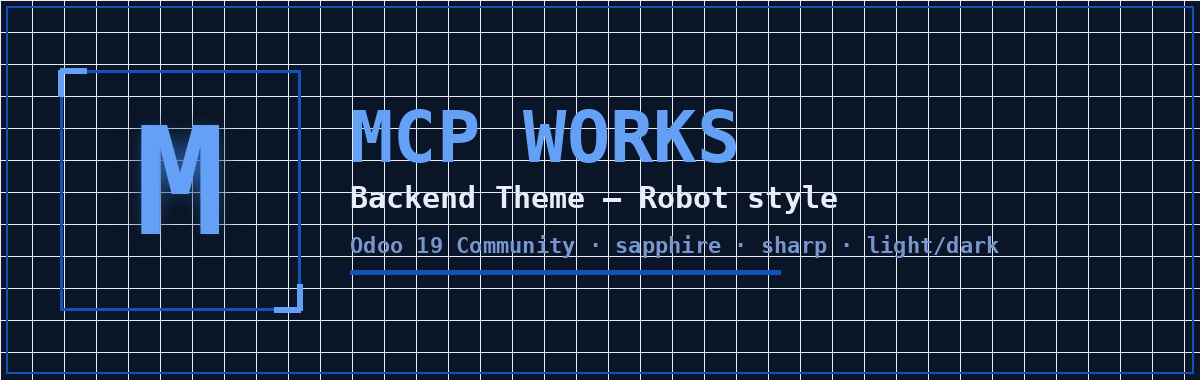
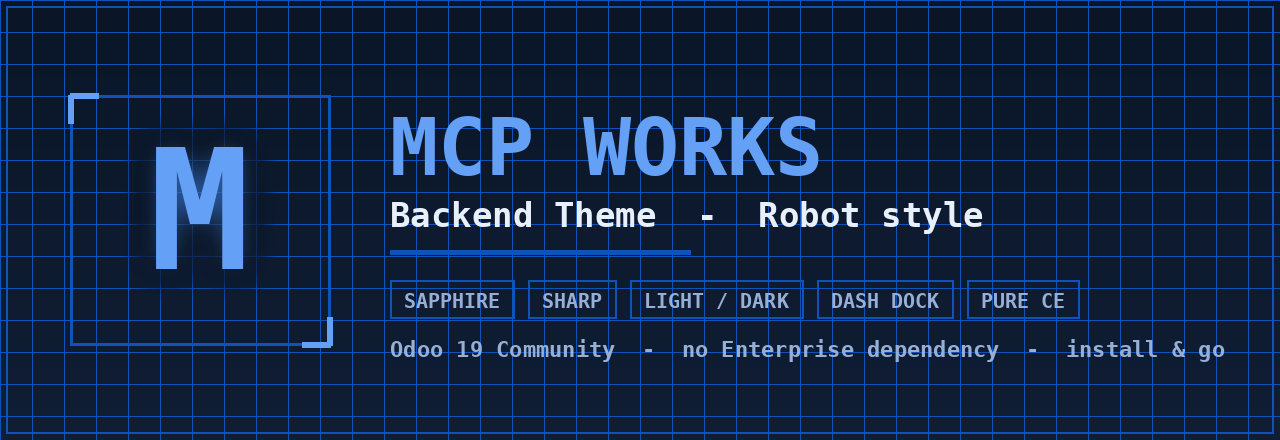
[DOC] theme_mcp_works_backend: Apps Store cover + fixed index.html + нов банер (v223)
Store страницата беше зле (Rosen): мохибейк + „no cover image". Причини:
- index.html беше БЕЗ <meta charset="UTF-8"> и със стар oe_* стил + emoji →
  счупени символи в Apps Store.
- Манифестът нямаше `images` → липсваше cover/thumbnail.

Фиксове (по стила на l10n_bg_config референта):
- index.html пренаписан: пълен HTML doc + charset UTF-8 + модерен Bootstrap
  (s_cover / card / col-lg-* / fa икони), БЕЗ emoji (fontawesome + HTML entities)
  → без мохибейк.
- __manifest__.py: `images: [static/description/banner.png]` → cover/thumbnail.
- Нов, по-издържан banner.png (M лого + feature чипове SAPPHIRE/SHARP/LIGHT-DARK/
  DASH DOCK/PURE CE + таглайн).

Changed region(s): [[0.0, 0.0, 1.0, 1.0]]

diff --git a/theme_mcp_works_backend/static/description/index.html b/theme_mcp_works_backend/static/description/index.html
@@ -1,126 +1,140 @@
-<!-- MCP Works — Backend Theme · Odoo Apps Store description
-     Bootstrap / Odoo snippet style (oe_container / oe_row / oe_span / oe_slogan). -->
+<!DOCTYPE html>
+<html lang="en">
+<head>
+    <meta charset="UTF-8">
+    <meta name="viewport" content="width=device-width, initial-scale=1.0">
+    <title>MCP Works &mdash; Backend Theme (Robot style)</title>
+</head>
+<body>
 
-<section class="oe_container">
-  <div class="oe_row oe_spaced">
-    <div class="oe_span12" style="text-align:center;">
-      <img src="banner.png" class="oe_picture" style="max-width:100%;height:auto;"/>
+<!-- Hero / cover -->
+<section class="s_cover pt64 pb64" style="background-color:#0a1628;">
+    <div class="container text-center">
+        <img src="banner.png" alt="MCP Works Backend Theme" class="img-fluid mb-4"
+             style="max-width:100%;border:1px solid #0F52BA;">
+        <h1 class="text-white mb-3">MCP Works &mdash; Backend Theme</h1>
+        <p class="lead mb-2" style="color:#99b3d6;">
+            A hi-tech, minimalist <strong>&laquo;robot&raquo;</strong> skin for the Odoo&nbsp;19
+            <strong style="color:#63a0f6;">Community</strong> backend
+        </p>
+        <p class="mb-0" style="color:#7f96b8;max-width:760px;margin:0 auto;">
+            Electric-sapphire accents, sharp corners, a fine blueprint mesh, seamless
+            light&nbsp;/&nbsp;dark mode and a vertical Dash dock &mdash; applied uniformly across
+            the whole backend. <strong>No Enterprise dependency.</strong>
+        </p>
     </div>
-    <div class="oe_span12">
-      <h2 class="oe_slogan" style="color:#0F52BA;margin-top:24px;">MCP Works — Backend Theme</h2>
-      <h3 class="oe_slogan" style="color:#334155;font-weight:400;">
-        A hi-tech, minimalist <strong>“robot”</strong> skin for the Odoo&nbsp;19 <strong>Community</strong> backend
-      </h3>
-      <p class="oe_mt32" style="text-align:center;max-width:820px;margin:24px auto 0;color:#334155;font-size:16px;line-height:1.6;">
-        Electric-sapphire accents, sharp corners, a fine blueprint mesh, seamless
-        light&nbsp;/&nbsp;dark mode and a vertical <em>Dash</em> dock — applied uniformly across
-        the whole backend. <strong>No Enterprise dependency.</strong> Just install and enjoy a
-        crisp, distinctive workspace.
-      </p>
-    </div>
-  </div>
 </section>
 
-<section class="oe_container oe_dark">
-  <div class="oe_row oe_spaced">
-    <div class="oe_span12"><h2 class="oe_slogan" style="color:#0F52BA;">Why you’ll like it</h2></div>
-
-    <div class="oe_span4">
-      <h3 class="oe_slogan" style="color:#0F52BA;">⚡ Independent &amp; Community-first</h3>
-      <p class="oe_mt16">Pure CE. Depends only on <code>web</code> and <code>base_setup</code>,
-        and explicitly excludes <code>web_enterprise</code>. No paid tiers required.</p>
+<!-- Highlights -->
+<section class="s_features pt48 pb32">
+    <div class="container">
+        <div class="row">
+            <div class="col-lg-12 s_title pb32 text-center">
+                <h2 style="color:#0F52BA;">Why you will like it</h2>
+            </div>
+            <div class="col-lg-3 col-md-6 pt16 pb16">
+                <div class="card h-100"><div class="card-body text-center">
+                    <i class="fa fa-cube fa-3x mb-3" style="color:#0F52BA;"></i>
+                    <h3 class="card-title h5">Community-first</h3>
+                    <p class="card-text">Pure CE. Depends only on <code>web</code> and
+                        <code>base_setup</code>; explicitly excludes <code>web_enterprise</code>.</p>
+                </div></div>
+            </div>
+            <div class="col-lg-3 col-md-6 pt16 pb16">
+                <div class="card h-100"><div class="card-body text-center">
+                    <i class="fa fa-diamond fa-3x mb-3" style="color:#0F52BA;"></i>
+                    <h3 class="card-title h5">Sharp robot identity</h3>
+                    <p class="card-text">Electric-sapphire accent, zero-radius corners, a subtle
+                        blueprint grid and monospace telemetry labels.</p>
+                </div></div>
+            </div>
+            <div class="col-lg-3 col-md-6 pt16 pb16">
+                <div class="card h-100"><div class="card-body text-center">
+                    <i class="fa fa-adjust fa-3x mb-3" style="color:#0F52BA;"></i>
+                    <h3 class="card-title h5">Light &amp; Dark</h3>
+                    <p class="card-text">A calibrated dark theme ships with the light one &mdash;
+                        token-driven, accent legible on both grounds.</p>
+                </div></div>
+            </div>
+            <div class="col-lg-3 col-md-6 pt16 pb16">
+                <div class="card h-100"><div class="card-body text-center">
+                    <i class="fa fa-columns fa-3x mb-3" style="color:#0F52BA;"></i>
+                    <h3 class="card-title h5">Vertical Dash dock</h3>
+                    <p class="card-text">A slim, always-there app launcher &mdash; expand for names,
+                        collapse for icons. Plus a selectable UI font.</p>
+                </div></div>
+            </div>
+        </div>
     </div>
-    <div class="oe_span4">
-      <h3 class="oe_slogan" style="color:#0F52BA;">◆ Sharp “robot” identity</h3>
-      <p class="oe_mt16">Electric-sapphire accent, zero-radius corners, a subtle blueprint
-        grid and monospace “telemetry” labels give the backend a clean, engineered feel.</p>
-    </div>
-    <div class="oe_span4">
-      <h3 class="oe_slogan" style="color:#0F52BA;">☾ Light &amp; Dark mode</h3>
-      <p class="oe_mt16">A carefully calibrated dark theme ships alongside the light one —
-        token-driven, with the accent kept legible on both grounds.</p>
-    </div>
-  </div>
 </section>
 
-<section class="oe_container">
-  <div class="oe_row oe_spaced">
-    <div class="oe_span12"><h2 class="oe_slogan" style="color:#0F52BA;">Themed everywhere</h2>
-      <p style="text-align:center;color:#334155;">Every core surface is calibrated — not just the navbar:</p>
+<!-- Themed everywhere -->
+<section class="pt48 pb48" style="background-color:#f6f8fb;">
+    <div class="container">
+        <div class="col-lg-12 text-center pb32">
+            <h2 style="color:#0F52BA;">Themed everywhere</h2>
+            <p class="text-muted">Every core surface is calibrated &mdash; not just the navbar.</p>
+        </div>
+        <div class="row">
+            <div class="col-lg-6">
+                <ul class="fa-ul" style="line-height:2;">
+                    <li><span class="fa-li"><i class="fa fa-check" style="color:#0F52BA;"></i></span><strong>List</strong> &amp; <strong>Form</strong> views</li>
+                    <li><span class="fa-li"><i class="fa fa-check" style="color:#0F52BA;"></i></span><strong>Kanban</strong> &mdash; flat cards, left-line hover, colour-safe</li>
+                    <li><span class="fa-li"><i class="fa fa-check" style="color:#0F52BA;"></i></span><strong>Calendar</strong> &mdash; sapphire today-marker, light event chips</li>
+                    <li><span class="fa-li"><i class="fa fa-check" style="color:#0F52BA;"></i></span><strong>Pivot</strong> &amp; <strong>Graph</strong></li>
+                </ul>
+            </div>
+            <div class="col-lg-6">
+                <ul class="fa-ul" style="line-height:2;">
+                    <li><span class="fa-li"><i class="fa fa-check" style="color:#0F52BA;"></i></span><strong>Activity</strong> view</li>
+                    <li><span class="fa-li"><i class="fa fa-check" style="color:#0F52BA;"></i></span><strong>Discuss</strong> &mdash; rail, composer, RTC call panel, notifications</li>
+                    <li><span class="fa-li"><i class="fa fa-check" style="color:#0F52BA;"></i></span><strong>Settings</strong> &mdash; sapphire nav, sharp panels</li>
+                    <li><span class="fa-li"><i class="fa fa-check" style="color:#0F52BA;"></i></span>Search panel, facets, dropdowns &amp; controls</li>
+                </ul>
+            </div>
+        </div>
     </div>
-    <div class="oe_span6">
-      <ul style="font-size:15px;line-height:1.9;color:#0a1628;">
-        <li><strong>List</strong> &amp; <strong>Form</strong> views</li>
-        <li><strong>Kanban</strong> (flat cards, left-line hover, colour-safe)</li>
-        <li><strong>Calendar</strong> (sapphire today-marker, light event chips)</li>
-        <li><strong>Pivot</strong> &amp; <strong>Graph</strong></li>
-      </ul>
-    </div>
-    <div class="oe_span6">
-      <ul style="font-size:15px;line-height:1.9;color:#0a1628;">
-        <li><strong>Activity</strong> view</li>
-        <li><strong>Discuss</strong> (rail, composer, RTC call panel, notifications)</li>
-        <li><strong>Settings</strong> (sapphire nav, sharp panels)</li>
-        <li><strong>Search panel</strong>, facets, dropdowns &amp; controls</li>
-      </ul>
-    </div>
-  </div>
 </section>
 
-<section class="oe_container oe_dark">
-  <div class="oe_row oe_spaced">
-    <div class="oe_span6">
-      <h3 class="oe_slogan" style="color:#0F52BA;">🎛 Vertical “Dash” dock</h3>
-      <p class="oe_mt16">A slim, always-there app launcher on the side — expand for names,
-        collapse for icons.</p>
+<!-- Requirements -->
+<section class="pt48 pb32">
+    <div class="container text-center">
+        <h2 style="color:#0F52BA;">Requirements</h2>
+        <p class="lead text-muted">
+            Odoo <strong>19.0 Community</strong> &nbsp;&middot;&nbsp; depends on
+            <code>web</code>, <code>base_setup</code> &nbsp;&middot;&nbsp;
+            License <strong>AGPL-3.0-or-later</strong>
+        </p>
     </div>
-    <div class="oe_span6">
-      <h3 class="oe_slogan" style="color:#0F52BA;">🔤 Selectable UI font</h3>
-      <p class="oe_mt16">Pick the interface typeface from Settings; the choice is applied
-        before the client paints, so there’s no flash.</p>
-    </div>
-  </div>
 </section>
 
-<section class="oe_container">
-  <div class="oe_row oe_spaced">
-    <div class="oe_span12"><h2 class="oe_slogan" style="color:#0F52BA;">Requirements</h2>
-      <p style="text-align:center;color:#334155;font-size:15px;">
-        Odoo <strong>19.0 Community</strong> &nbsp;·&nbsp; depends on <code>web</code>, <code>base_setup</code>
-        &nbsp;·&nbsp; License <strong>AGPL-3.0-or-later</strong>
-      </p>
+<!-- Support / star CTA -->
+<section class="s_cover pt48 pb64" style="background-color:#0a1628;">
+    <div class="container text-center">
+        <h2 class="text-white mb-3">Made by MCP Works</h2>
+        <p class="lead mb-4" style="color:#99b3d6;max-width:760px;margin:0 auto;">
+            Independent Odoo work. Meet our <strong>Odoo &harr; Claude MCP server</strong>
+            &mdash; the bridge that lets AI drive your Odoo.
+        </p>
+        <p class="mb-5">
+            <a href="https://github.com/rosenvladimirov/odoo-claude-mcp" target="_blank" rel="noopener"
+               class="btn btn-lg" style="background-color:#0F52BA;border-color:#0F52BA;color:#fff;border-radius:0;">
+                <i class="fa fa-github"></i>&nbsp; github.com/rosenvladimirov/odoo-claude-mcp
+            </a>
+        </p>
+        <p class="text-white mb-3" style="font-size:18px;">
+            <strong>Enjoying the theme?</strong><br>
+            A single star means a lot and keeps independent Odoo tooling alive.
+            Please star our MCP server as a thank-you:
+        </p>
+        <p class="mb-0">
+            <a href="https://github.com/rosenvladimirov/odoo-claude-mcp" target="_blank" rel="noopener"
+               class="btn btn-lg btn-outline-light" style="border-radius:0;">
+                <i class="fa fa-star"></i>&nbsp; Star odoo-claude-mcp on GitHub &mdash; thank you!
+            </a>
+        </p>
     </div>
-  </div>
 </section>
 
-<!-- ★ Support / thank-you ────────────────────────────────────────────── -->
-<section class="oe_container oe_dark">
-  <div class="oe_row oe_spaced">
-    <div class="oe_span12" style="text-align:center;">
-      <h2 class="oe_slogan" style="color:#0F52BA;">Made by MCP Works</h2>
-      <p style="font-size:16px;color:#334155;line-height:1.7;max-width:760px;margin:0 auto;">
-        Independent Odoo work, crafted with ⚡. Meet our <strong>Odoo&nbsp;↔&nbsp;Claude MCP server</strong>
-        — the bridge that lets AI drive your Odoo:
-      </p>
-      <p class="oe_mt16" style="text-align:center;">
-        <a href="https://github.com/rosenvladimirov/odoo-claude-mcp" target="_blank" rel="noopener"
-           style="display:inline-block;background:#0F52BA;color:#fff;text-decoration:none;
-                  padding:12px 28px;font-weight:700;letter-spacing:0.04em;border-radius:0;">
-          🤖 github.com/rosenvladimirov/odoo-claude-mcp
-        </a>
-      </p>
-      <p class="oe_mt32" style="font-size:17px;color:#0a1628;line-height:1.7;max-width:760px;margin:28px auto 0;">
-        <strong>⭐ Enjoying the theme?</strong><br/>
-        A single star means a lot and keeps independent Odoo tooling alive.
-        Please star our MCP server as a thank-you:
-      </p>
-      <p class="oe_mt16" style="text-align:center;">
-        <a href="https://github.com/rosenvladimirov/odoo-claude-mcp" target="_blank" rel="noopener"
-           style="display:inline-block;border:2px solid #0F52BA;color:#0F52BA;text-decoration:none;
-                  padding:10px 26px;font-weight:700;letter-spacing:0.04em;border-radius:0;">
-          ⭐ Star odoo-claude-mcp on GitHub — thank you!
-        </a>
-      </p>
-    </div>
-  </div>
-</section>
+</body>
+</html>

diff --git a/theme_mcp_works_backend/__manifest__.py b/theme_mcp_works_backend/__manifest__.py
@@ -5,7 +5,7 @@
     "summary": "Independent hi-tech minimalist Odoo CE backend — robot "
                "theme, electric sapphire accents, sharp corners, "
                "light/dark mode, vertical Dash dock",
-    "version": "19.0.1.222.0",
+    "version": "19.0.1.223.0",
     "category": "Themes/Backend",
     "author": "Rosen Vladimirov, BL Consulting",
     "maintainers": ["rosen-vladimirov"],
@@ -13,6 +13,10 @@
     "license": "AGPL-3",
     "depends": ["web", "base_setup"],
     "excludes": ["web_enterprise"],
+    # Първата картинка = cover/thumbnail на Odoo Apps Store (иначе „no cover image").
+    "images": [
+        "static/description/banner.png",
+    ],
     "data": [
         "views/res_config_settings_views.xml",
     ],
